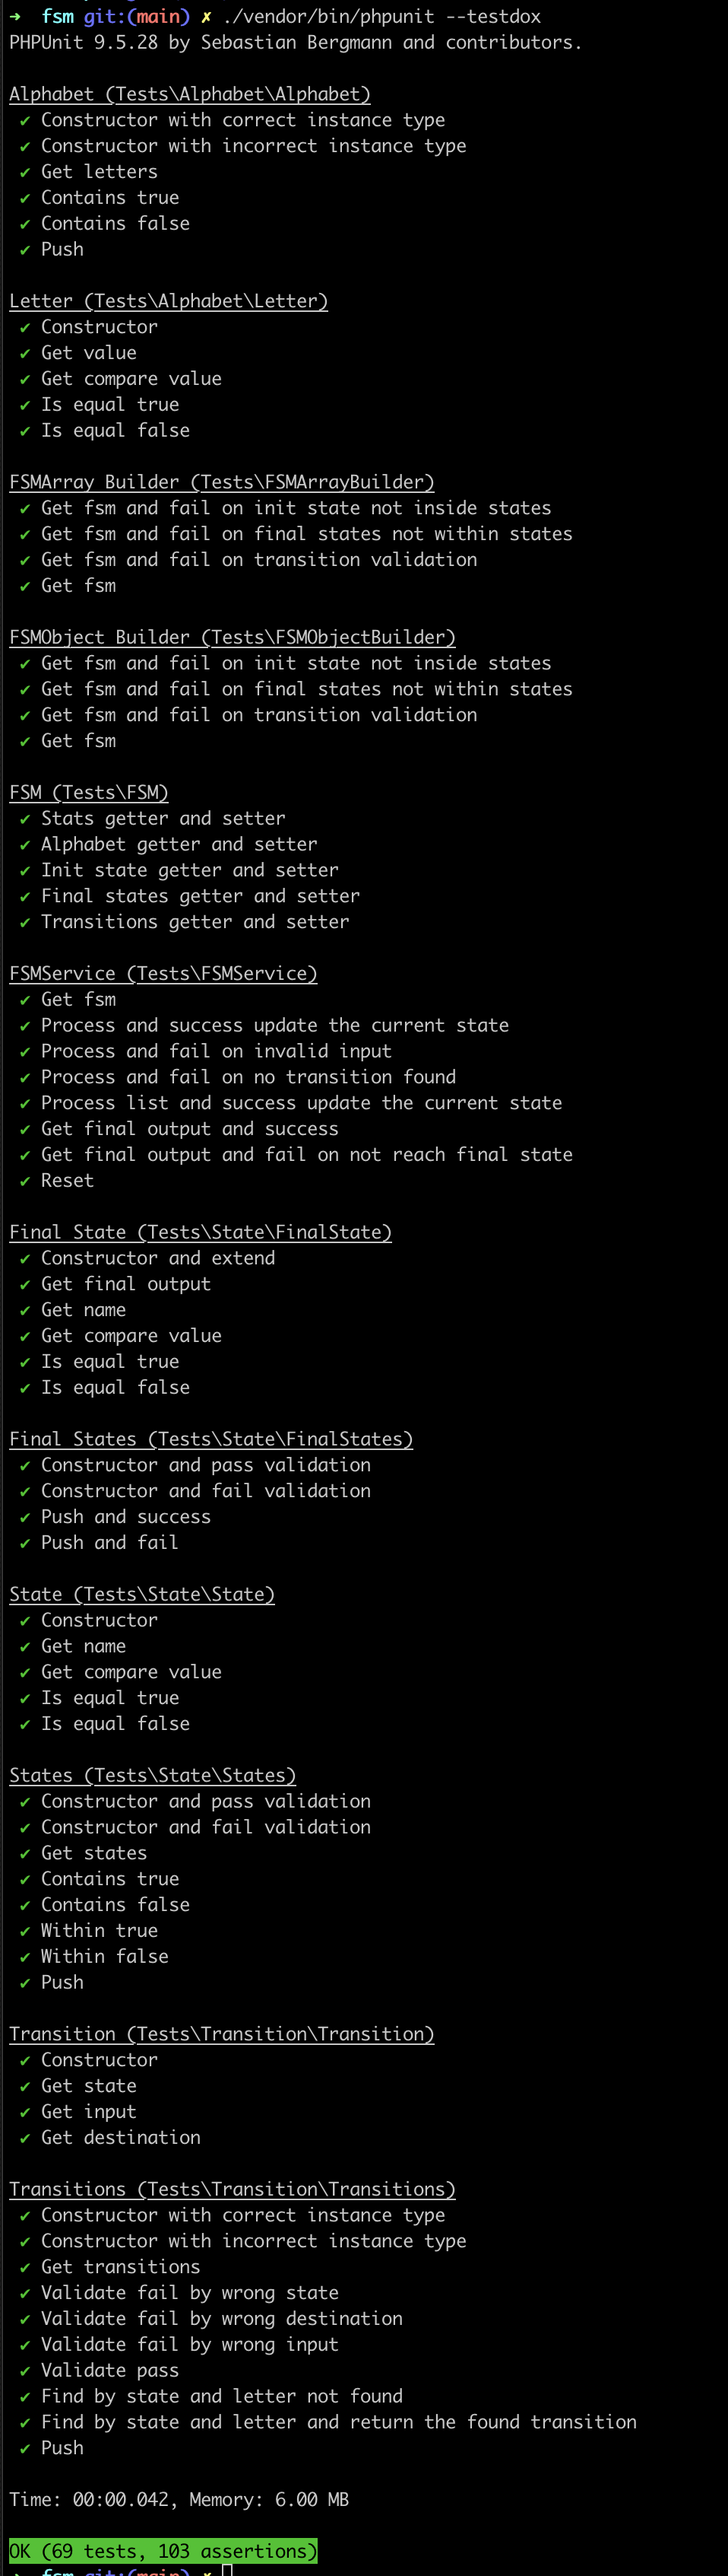
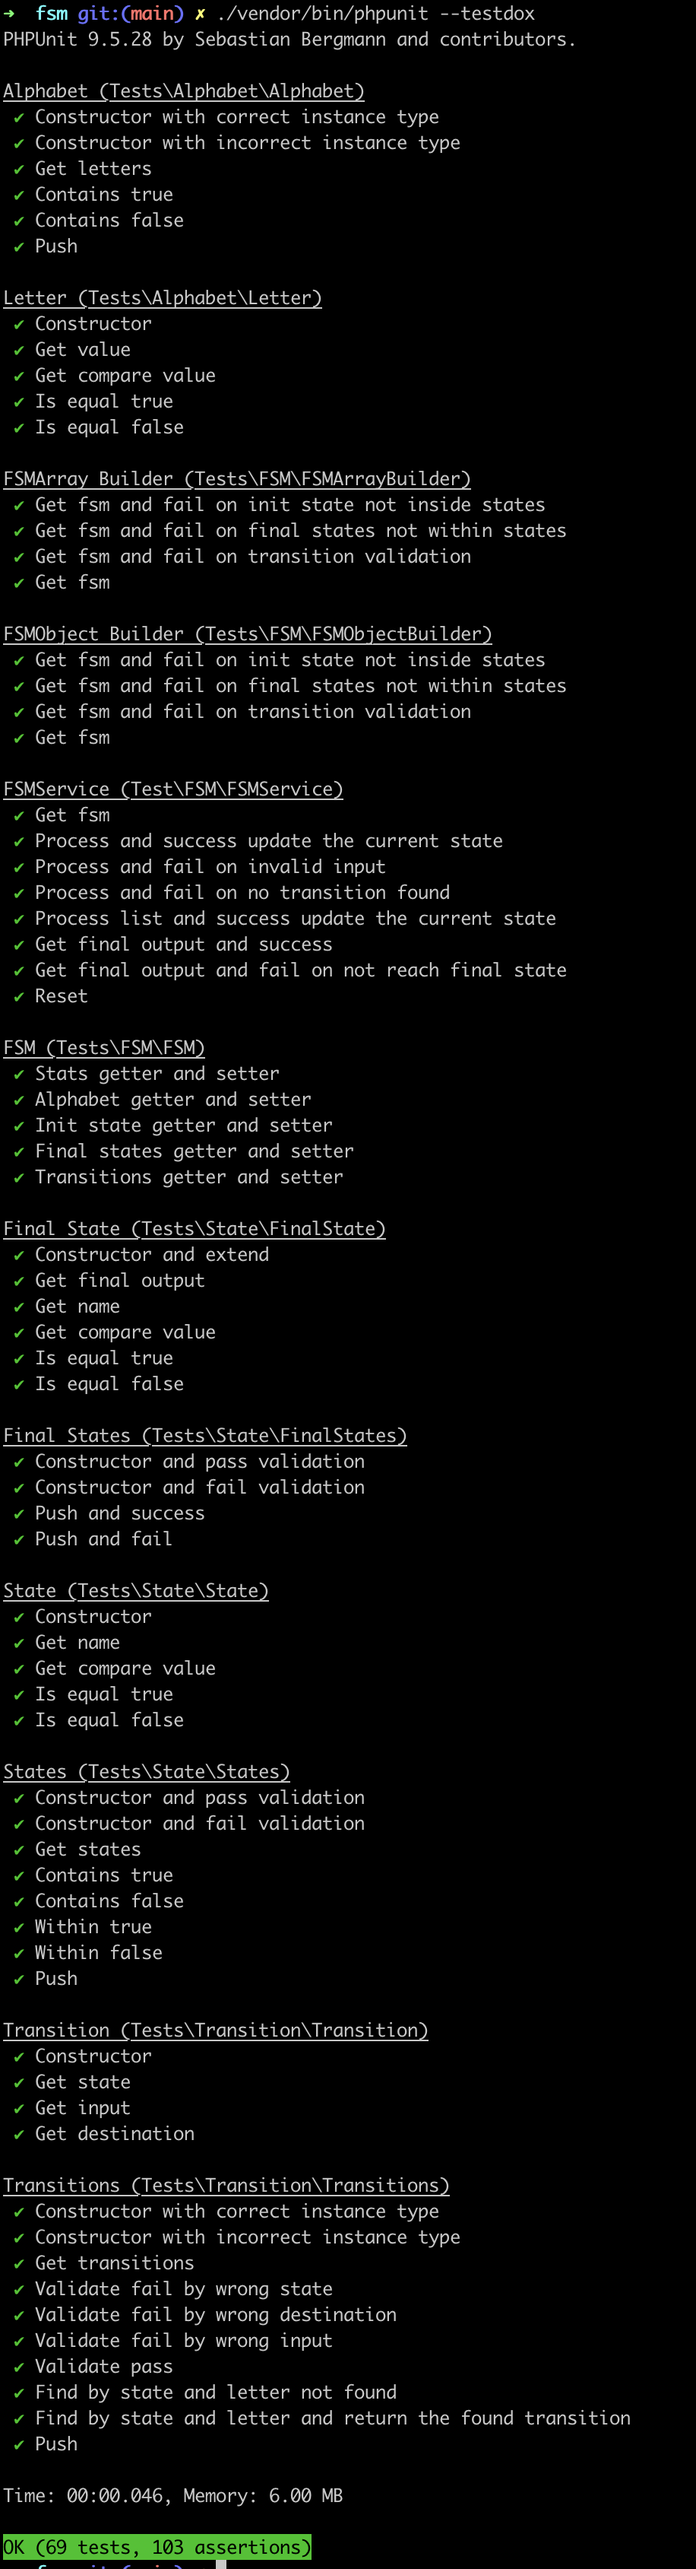
File structure update and readme update

diff --git a/tests/FSM/FSMServiceTest.php b/tests/FSM/FSMServiceTest.php
@@ -2,12 +2,12 @@
 
 declare(strict_types=1);
 
-namespace Tests;
+namespace Test\FSM;
 
 use FSM\Alphabet\Letter;
 use FSM\FSM\FSM;
 use FSM\FSM\FSMArrayBuilder;
-use FSM\FSMService;
+use FSM\FSM\FSMService;
 use FSM\State\FinalState;
 use FSM\State\State;
 use FSM\Transition\Transition;

diff --git a/src/FSM/FSMService.php b/src/FSM/FSMService.php
@@ -2,11 +2,10 @@
 
 declare(strict_types=1);
 
-namespace FSM;
+namespace FSM\FSM;
 
 use Exception;
 use FSM\Alphabet\Letter;
-use FSM\FSM\FSM;
 
 /**
  * This class implements the Finite State Machine (FSM) based on the following abstract definition:

diff --git a/example/modThree.php b/example/modThree.php
@@ -7,7 +7,7 @@ require '../vendor/autoload.php';
 use FSM\Alphabet\Letter;
 use FSM\FSM\FSMArrayBuilder;
 use FSM\FSM\FSMObjectBuilder;
-use FSM\FSMService;
+use FSM\FSM\FSMService;
 use FSM\State\FinalState;
 use FSM\Transition\Transition;
 

diff --git a/tests/FSM/FSMArrayBuilderTest.php b/tests/FSM/FSMArrayBuilderTest.php
@@ -2,9 +2,8 @@
 
 declare(strict_types=1);
 
-namespace Tests;
+namespace Tests\FSM;
 
-use FSM\Alphabet\Alphabet;
 use FSM\Alphabet\Letter;
 use FSM\FSM\FSM;
 use FSM\FSM\FSMArrayBuilder;

diff --git a/tests/FSM/FSMTest.php b/tests/FSM/FSMTest.php
@@ -2,7 +2,7 @@
 
 declare(strict_types=1);
 
-namespace Tests;
+namespace Tests\FSM;
 
 use FSM\Alphabet\Alphabet;
 use FSM\Alphabet\Letter;

diff --git a/tests/FSM/FSMObjectBuilderTest.php b/tests/FSM/FSMObjectBuilderTest.php
@@ -2,7 +2,7 @@
 
 declare(strict_types=1);
 
-namespace Tests;
+namespace Tests\FSM;
 
 use FSM\Alphabet\Letter;
 use FSM\FSM\FSM;

diff --git a/README.md b/README.md
@@ -2,30 +2,57 @@
 
 ## Table of Content
 * [Overview](#overview)
+* [Demo](#demo)
 * [Technical Aspect](#technical-aspect)
+  * [Diagram](#uml-diagram)
+  * [Tech Skills](#tech-skills)
   * [Requirement](#requirement)
   * [File Structure](#file-structure)
   * [Class Structure](#class-structure)
   * [Procedure](#procedure)
 * [Tests](#tests)
-* [Demo](#demo)
+
 
 
 ## Overview
 Create a software module for generating an FSM (Finite State Machine). The API of the library is designed for use by other developers. The library(class) is fully test covered. The 'mod-three' procedure is the demo for the FSM. 
 
+## Demo
+
+### Installation and Executing Instruction
+1. Require php v8.1 and composer v3
+2. Run `composer install` on project root
+3. Under project directory, `cd example`, then `php mod_three.php`
+
+### Demo examples
+1. Use FSM Array Builder to initiate FSM, then start FSM Service
+2. Call Service `processList` with letter list to reproduce the 2 examples from the instruction document
+   1. `reset` the FSM after the first example
+3. Use FSM Object Builder to initiate another FSM, then start FSM Service with new FSM instance
+4. Call Service `processList` a 24 digit binary number for heavier testing
+
+![demo](./docs/demo.png)
+
 ## Technical Aspect
 
 ### Requirement
 - PHP 8.1
-  - Xdebug (if run code coverage)
+  - Xdebug (for code coverage)
 - composer
 - PHPUnit
+
+### UML Diagram
+
+### Tech Skills
+- Fully Object-Oriented Programming
+- Fully follow SOLID principle
+- Unit Testing (100% code coverage)
+- Builder Design Pattern
+- Object Interface and Inheritance
 
 ### File Structure
 
 - `/src` is the core library
-  - The main class is named as `FSM` in `FSM.php` file
 - `/tests` is the PHPUnit test suite
 - `/example` is the example/demo of the FSM by implementing mod-three procedure
 
@@ -75,14 +102,4 @@ The Test is covering **100%** source code under src folder.
 
 ![php_codecoverage](./docs/php_code_coverage.png)
 
-## Demo
 
-1. Make sure php v8.1 and composer v3 is installed
-2. Run `composer install` on project root to have fresh autoload
-3. Go to project root, `cd example`, then `php mod_three.php`
-
-The demo initiate 3 states, and 2 letters, then use FSM Builder to make an instance.
-The demo then calls `processList` with letter list to reproduce the 2 examples from the instruction document
-The demo also add a 24 digit binary number for extra testing
-
-![demo](./docs/demo.png)
